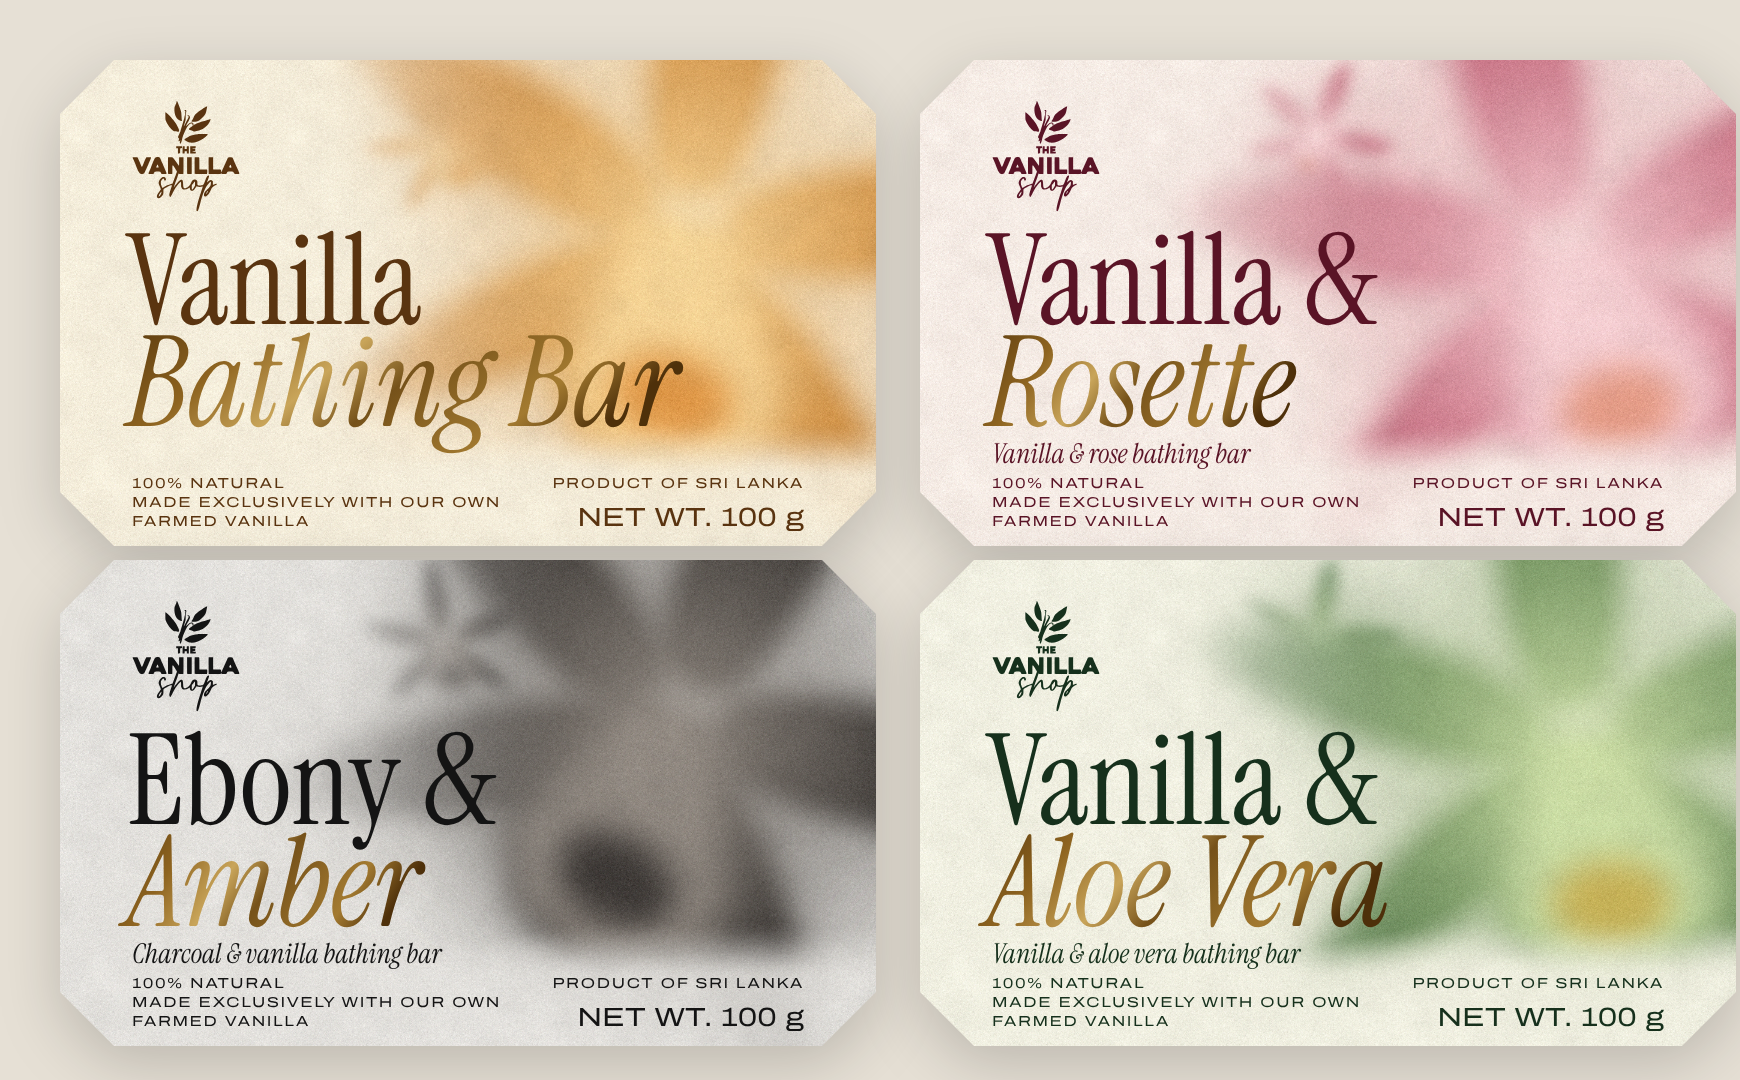
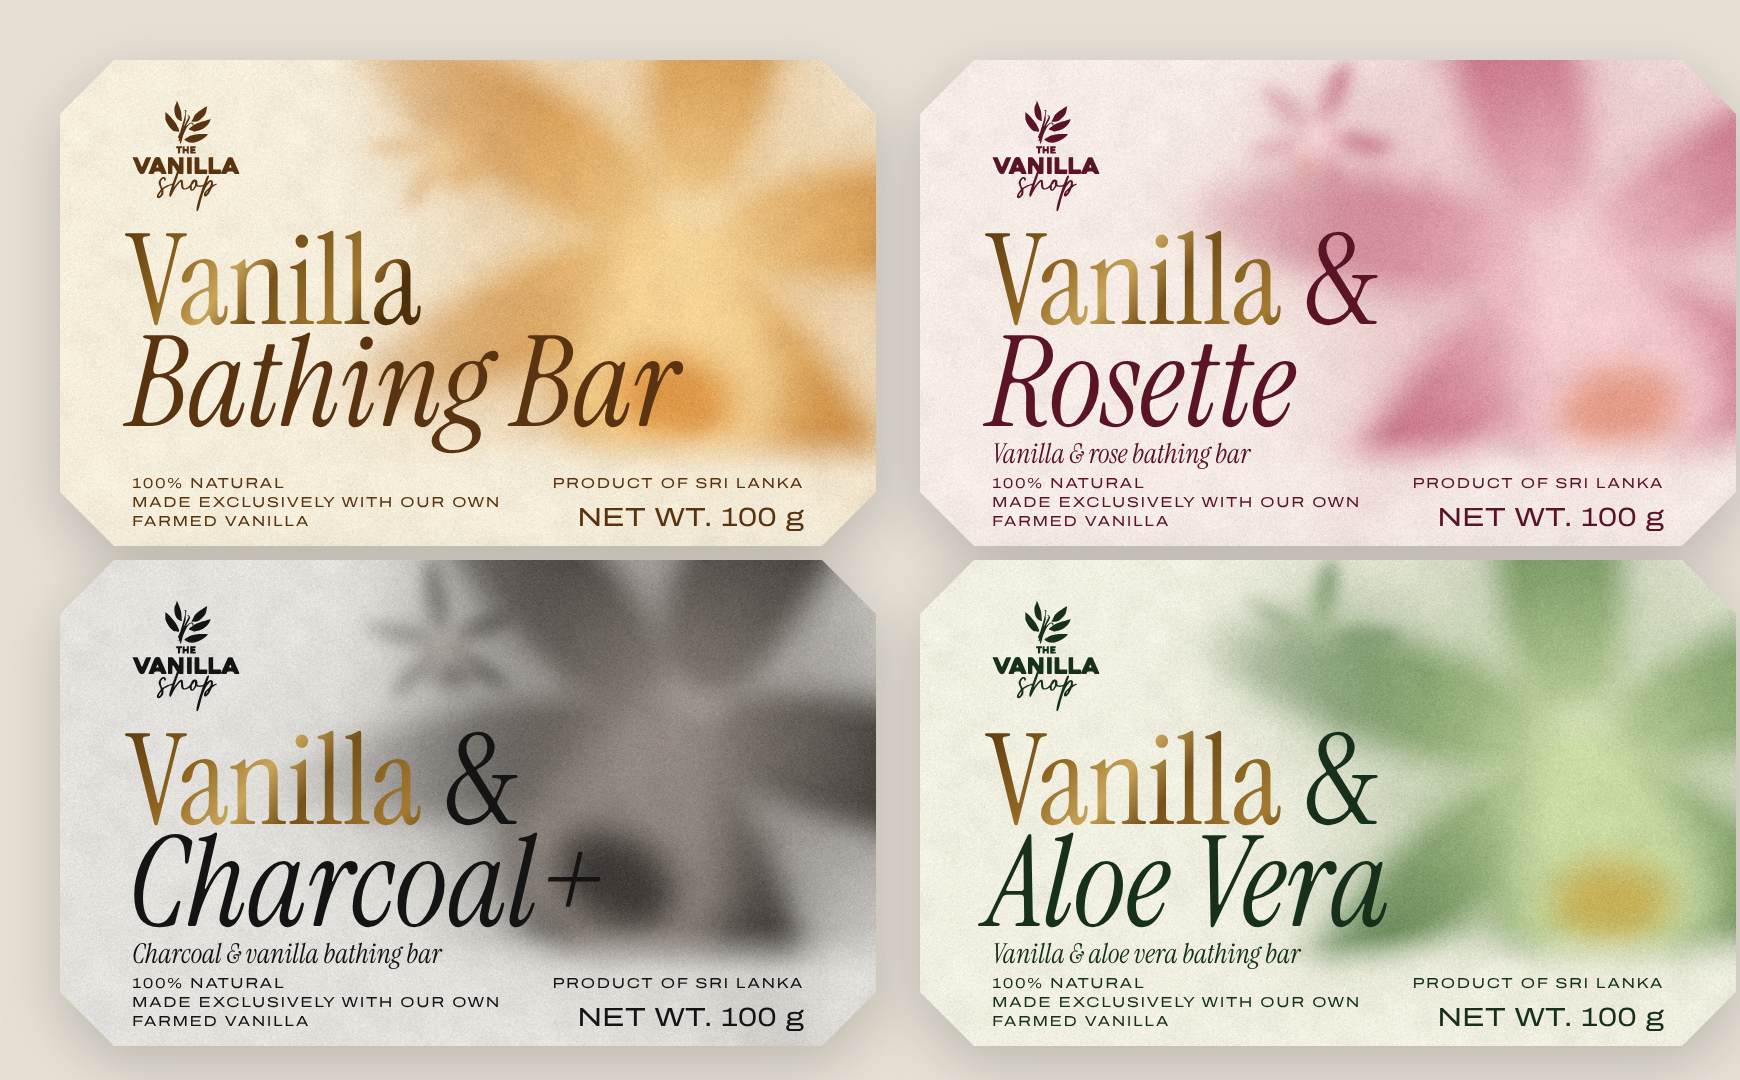
Soap: Ebony & Amber renamed Vanilla & Charcoal+; 'Vanilla' in gold foil on every name
Claude-Session: https://claude.ai/code/session_01Psd6wLDi15Gf4F1fXEFmxS

diff --git a/vanilla-shop/studies/soap/bloom-duo/octo8.py b/vanilla-shop/studies/soap/bloom-duo/octo8.py
@@ -145,7 +145,7 @@ def front_engr(k,art=None):
        cap('MADE WITH OUR OWN',69.6,0.8), cap('FARMED VANILLA',72.6,0.8), cap('NET WT. 100 G',75.6,0.8)]
     return (f'<svg xmlns="http://www.w3.org/2000/svg" viewBox="0 0 {W} {H}" width="100%" height="100%"><defs><clipPath id="oc"><path d="{octa()}"/></clipPath></defs>'
             f'<g clip-path="url(#oc)">{"".join(b)}</g></svg>')
-FN={'vanilla':('Vanilla','Bathing Bar'),'rosette':('Vanilla &','Rosette'),'ebony':('Ebony &','Amber'),'aloe':('Vanilla &','Aloe Vera')}
+FN={'vanilla':('Vanilla','Bathing Bar'),'rosette':('Vanilla &','Rosette'),'ebony':('Vanilla &','Charcoal+'),'aloe':('Vanilla &','Aloe Vera')}
 FD={'vanilla':'','rosette':'Vanilla & rose bathing bar','ebony':'Charcoal & vanilla bathing bar','aloe':'Vanilla & aloe vera bathing bar'}
 def front_bloom(k,art=None):
     # Type sized to a hierarchy you can read at arm's length on a shelf: name ~60 pt, logo 18 mm, descriptor ~13 pt,
@@ -154,8 +154,8 @@ def front_bloom(k,art=None):
     art=art or f'D-{k}.png'
     b=[f'<image href="file:///tmp/claude-0/-home-user-PersonalEventPlanner305App/0712b206-ea71-562e-9a83-45f8f096455f/scratchpad/soap/b3/{art}" x="-7" y="-7" width="150" height="95" preserveAspectRatio="none"/>',
        logo(x+9,16,18,ink),
-       f'<text x="{x-0.8}" y="44" font-family="ISR" font-size="21" fill="{ink}">{l1}</text>',
-       f'<text x="{x-0.8}" y="61" font-family="IS" font-size="21" fill="url(#foil2)">{l2}</text>',
+       f'<text x="{x-0.8}" y="44" font-family="ISR" font-size="21" fill="url(#foil2)">Vanilla<tspan fill="{ink}">{l1[7:]}</tspan></text>',
+       f'<text x="{x-0.8}" y="61" font-family="IS" font-size="21" fill="{ink}">{l2}</text>',
        (f'<text x="{x}" y="67.2" font-family="IS" font-size="4.6" fill="{ink}">{FD[k]}</text>' if k!='vanilla' else ''),
        f'<text x="{x}" y="71.4" font-family="AE" font-size="2.4" fill="{ink}" letter-spacing="0.25">100% NATURAL</text>',
        f'<text x="{x}" y="74.5" font-family="AE" font-size="2.4" fill="{ink}" letter-spacing="0.25">MADE EXCLUSIVELY WITH OUR OWN</text>',

diff --git a/vanilla-shop/studies/soap/bloom-duo/TEXT.md b/vanilla-shop/studies/soap/bloom-duo/TEXT.md
@@ -4,7 +4,7 @@
 |---|---|---|
 | Natural Vanilla Soap | Vanilla Bathing Bar | (none) |
 | Rosette Soap | Vanilla & Rosette | Vanilla & rose bathing bar |
-| Charcoal Soap | Ebony & Amber | Charcoal & vanilla bathing bar |
+| Charcoal Soap | Vanilla & Charcoal+ (renamed; was Ebony & Amber) | Charcoal & vanilla bathing bar |
 | Aloe Soap | Vanilla & Aloe Vera | Vanilla & aloe vera bathing bar |
 
 Every front also says: 100% Natural · Made exclusively with our own farmed vanilla · Product of Sri Lanka.
